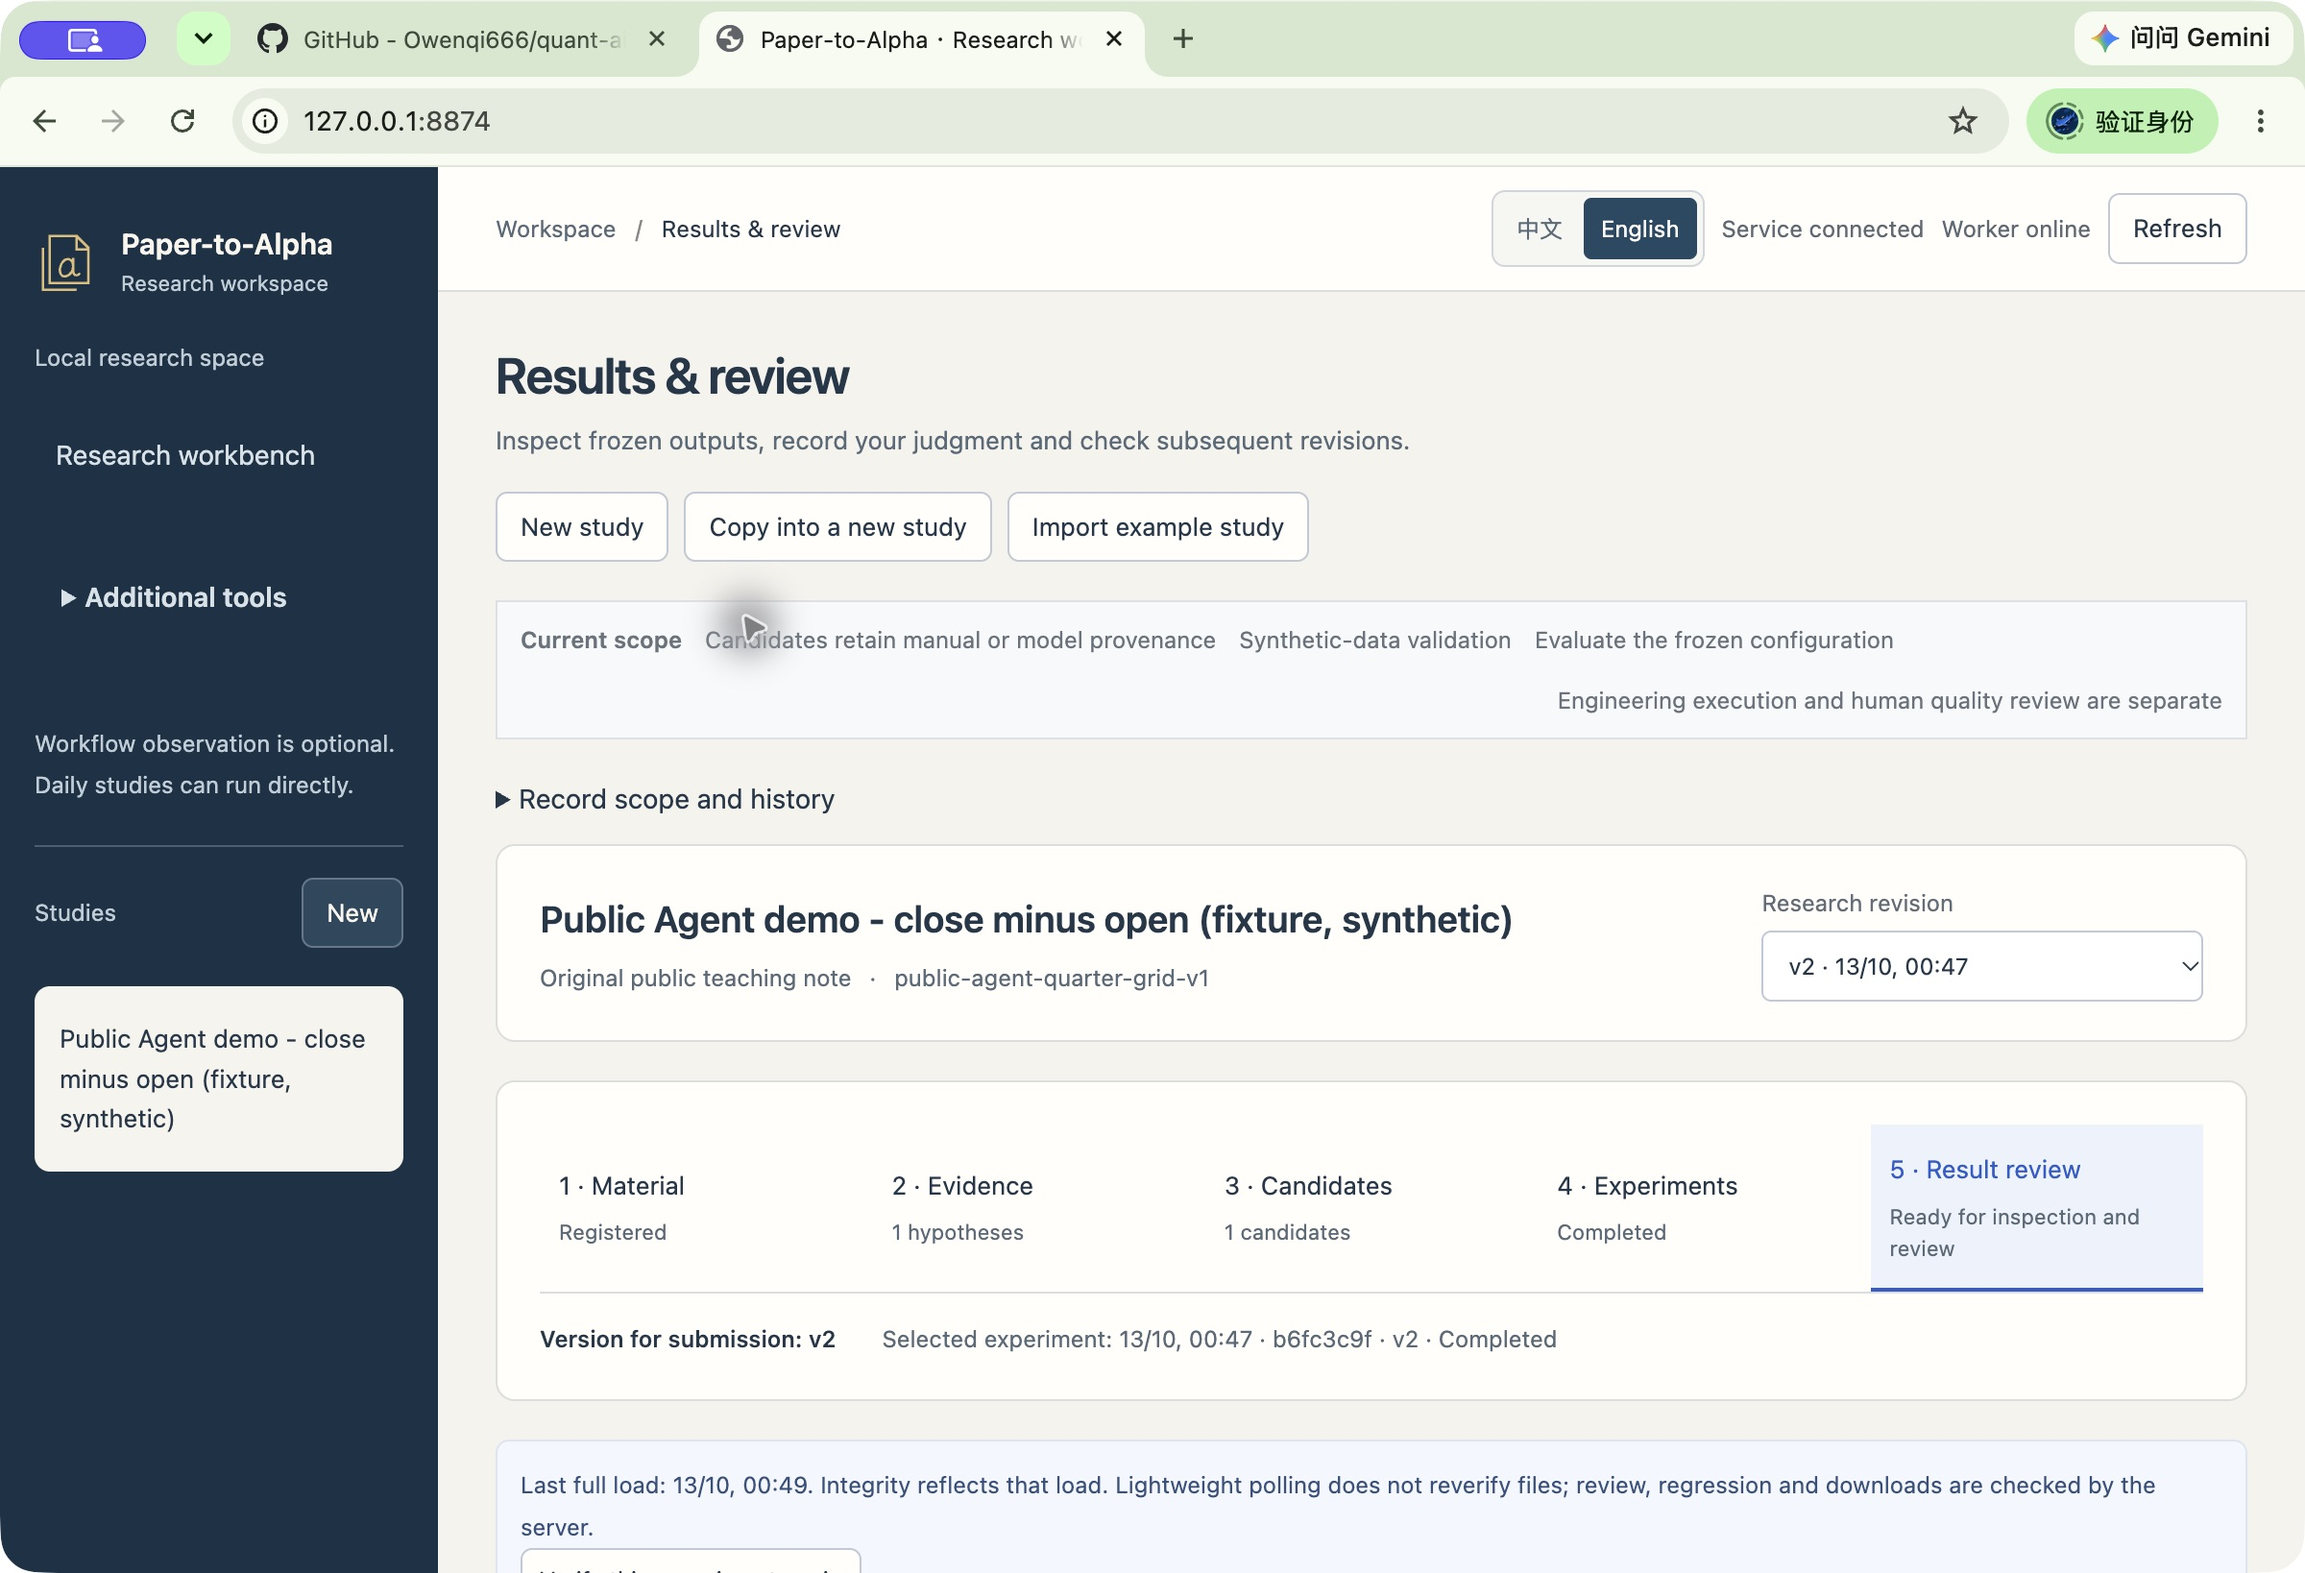
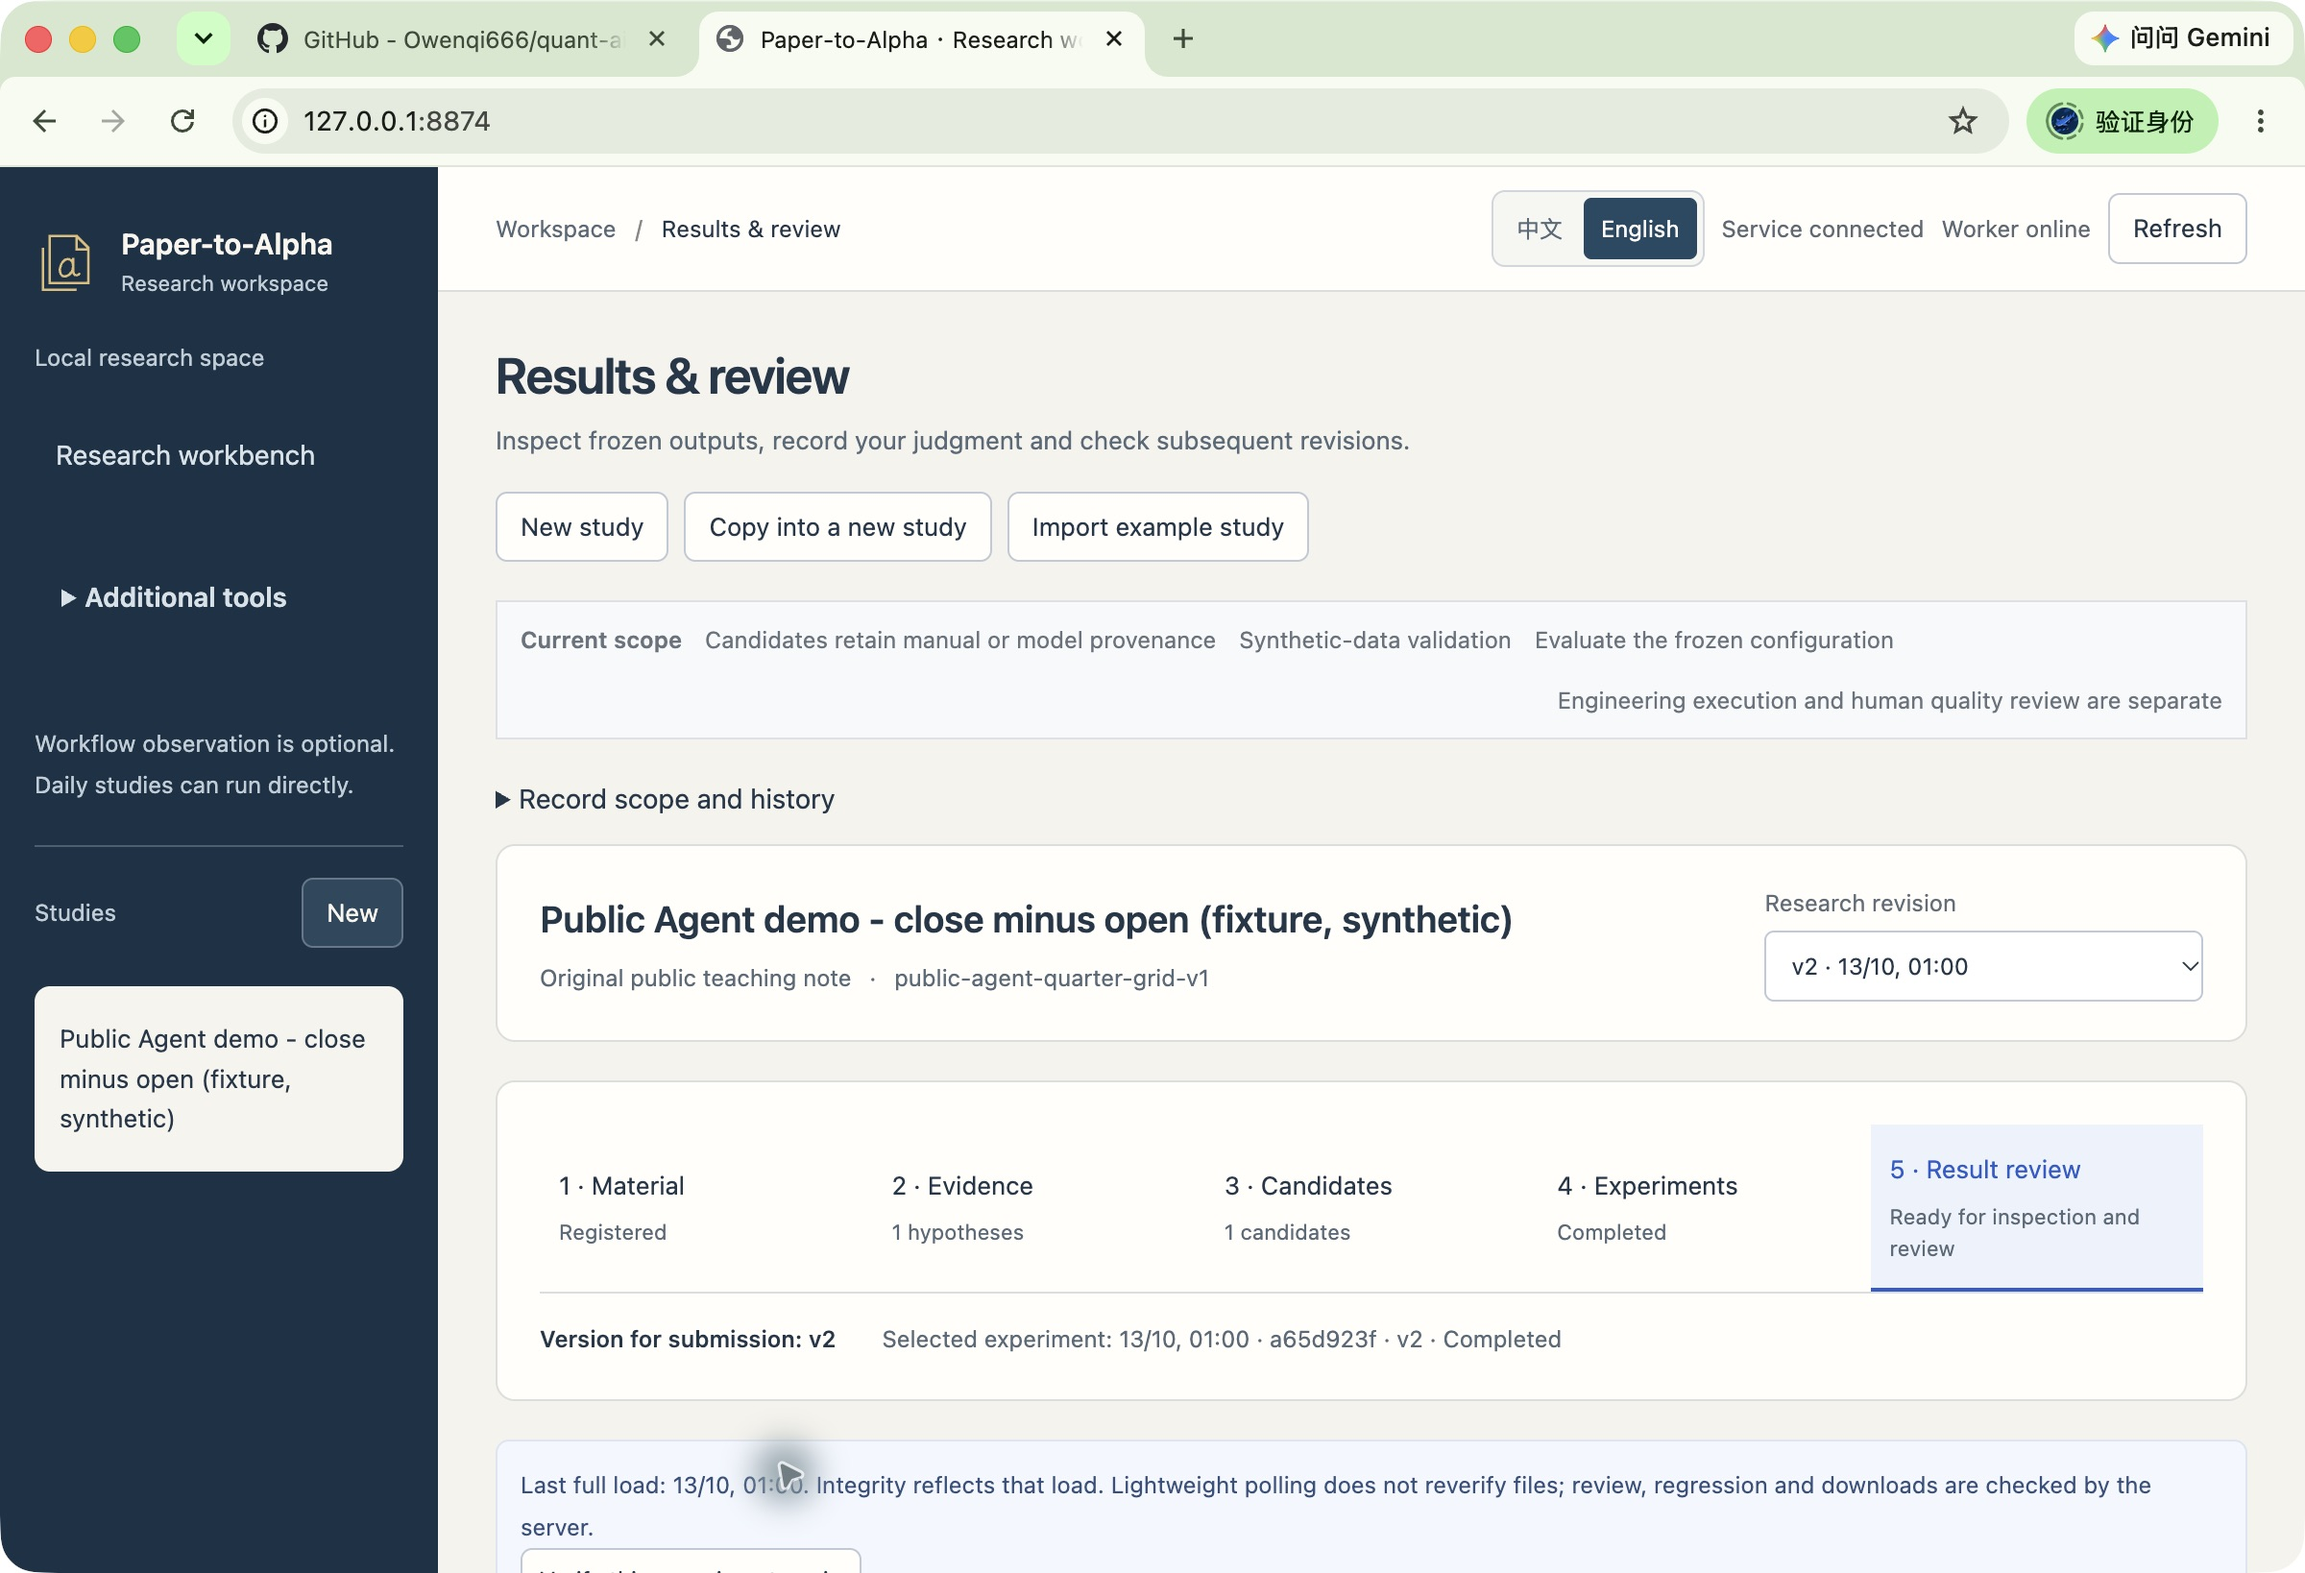
Reject arithmetic continuations on adjacent selected pages and retain independent declarations

diff --git a/tests/test_operator_definition_public.py b/tests/test_operator_definition_public.py
@@ -201,6 +201,38 @@ class PublicOperatorDefinitionTests(unittest.TestCase):
         repair = plan_operator_definition_repair(selection, material, catalog)
         self.assertFalse(repair['changed']); self.assertEqual(repair['material'], material)
 
+    def test_adjacent_selected_page_division_is_not_a_complete_definition(self):
+        suffix = 'divided by the value of x d days ago'
+        for terminal in ['', '.']:
+            for tail in [suffix, suffix.upper(), suffix + '; ' + RANK]:
+                with self.subTest(terminal=terminal, tail=tail):
+                    selection, material, catalog = synthetic('delta(close, 1)', (DELTA + terminal, tail))
+                    result = assess_operator_definitions(selection, material, catalog)
+                    self.assertEqual(result['status'], 'needs_information'); self.assertEqual(missing(result), {'delta'})
+                    plan = plan_operator_definition_repair(selection, material, catalog)
+                    self.assertFalse(plan['changed']); self.assertEqual(plan['material'], material)
+
+    def test_adjacent_selected_page_arithmetic_continuations_remain_unresolved(self):
+        for tail in ['multiplied by d', 'MULTIPLIED BY d', 'plus d', 'MINUS d', '/ d', '* d', '+ d', '- d']:
+            with self.subTest(tail=tail):
+                selection, material, catalog = synthetic('delta(close, 1)', (DELTA + '.', tail))
+                result = assess_operator_definitions(selection, material, catalog)
+                self.assertEqual(result['status'], 'needs_information'); self.assertEqual(missing(result), {'delta'})
+                self.assertFalse(plan_operator_definition_repair(selection, material, catalog)['changed'])
+        selection, material, catalog = synthetic('sign(close)', (SIGN, 'multiplied by 2'))
+        self.assertEqual(missing(assess_operator_definitions(selection, material, catalog)), {'sign'})
+
+    def test_next_selected_page_independent_definition_or_named_formula_ends_the_declaration(self):
+        for following in [RANK, 'Alpha#9002: rank(close)', 'minus(x) = an independently named function']:
+            with self.subTest(following=following):
+                selection, material, catalog = synthetic('delta(close, 1)', (DELTA, following))
+                self.assertEqual(assess_operator_definitions(selection, material, catalog)['status'], 'grounded')
+
+    def test_unselected_page_continuation_is_not_read_or_inferred(self):
+        selection, material, catalog = synthetic('delta(close, 1)',
+            (DELTA, 'divided by the value of x d days ago'), selected_pages=[1, 2])
+        self.assertEqual(assess_operator_definitions(selection, material, catalog)['status'], 'grounded')
+
     def test_delta_rhs_keeps_arithmetic_and_sentence_suffixes_unresolved(self):
         for suffix in [' multiplied by d', ' / d', ' * 2', ' plus the current value of x',
                        '; divided by d', '. Divided by d', '\nmultiplied by d', '...']:

diff --git a/paper_alpha/server/operator_definition_grounding.py b/paper_alpha/server/operator_definition_grounding.py
@@ -27,6 +27,7 @@ _STANDARD_SYMBOL = r'(?:\+|-|\*|/|>|<|==|\|\||x \? y : z)'
 _QUOTED_STANDARD_SYMBOL = rf'(?:"{_STANDARD_SYMBOL}"|“{_STANDARD_SYMBOL}”)'
 _STANDARD_MEANING = (rf'standard definitions(?:;\s*same for the operators\s+{_QUOTED_STANDARD_SYMBOL}'
                      rf'(?:,\s*{_QUOTED_STANDARD_SYMBOL}){{0,15}})?')
+_ARITHMETIC_CONTINUATION = re.compile(r'^(?:(?:divided|multiplied)\s+by\b|(?:plus|minus)\b|[/*+\-−])', re.I)
 
 
 def check_policy():
@@ -127,6 +128,16 @@ def _definitions(selection, catalog):
                            else _meaning(name, parameters))
             if pattern is None or re.fullmatch(pattern, rhs, re.I) is None:
                 continue
+            if index + 1 == len(headers) and page + 1 in selection['selected_pages']:
+                following = ''.join(c['text'] for c in selection['chunks'] if c['page'] == page + 1)
+                boundaries = [m.start() for m in _HEADER.finditer(following)]
+                boundaries += [m.start() for m in _STANDARD_HEADER.finditer(following)]
+                boundaries += [m.start() for m in re.finditer(r'\bAlpha\s*#\s*\d+\s*:', following, re.I)]
+                prefix = following[:min(boundaries) if boundaries else len(following)].lstrip()
+                # Only explicit leading arithmetic continuations are covered;
+                # independent prose is not silently attached across pages.
+                if _ARITHMETIC_CONTINUATION.match(prefix):
+                    continue
             # V1 evidence ranges name one source chunk. A declaration crossing
             # chunks remains unresolved; catalog spans within a chunk can join.
             chunk = next((c for c in chunks if c['start'] <= header.start() and end <= c['end']), None)

diff --git a/docs/model-workflow.md b/docs/model-workflow.md
@@ -43,6 +43,8 @@ The source-definition check follows nested AST operator dependencies and a finit
 
 If the necessary definition already exists in the selected spans, the bounded repair appends its citations and bindings in a new automation version. It preserves the raw draft, earlier accepted versions, hypotheses, formula, data, and scientific unknowns. Absent definitions, incorrect formulas, and inconsistent windows produce `needs_information`; the checker does not manufacture source text. A complete input may produce a zero-change verification version rather than a citation repair.
 
+Definition coverage is limited to a finite formal grammar and a declaration contained in one selected transport chunk. Catalog spans may jointly cover it. Explicit leading arithmetic continuations on the next adjacent selected physical page are also rejected; unselected pages are never read. Cross-page declarations, arbitrary cross-page prose, unfamiliar formatting and general entailment are outside this recognizer.
+
 ## Explicit formula engineering
 
 Formula-engineering mode can test a calculable source formula while leaving its missing economic explanation unresolved. It requires explicit execution conditions and an exact disposition for every original unknown. The source calculation, data meanings, mathematical direction, and execution assumptions must be adequate for computation. An execution gap cannot be relabeled as a scientific unknown to pass the gate.

diff --git a/docs/publication-validation.md b/docs/publication-validation.md
@@ -4,7 +4,7 @@
 
 A separate public checkout installed the locked dependencies in a new Python
 3.14.4 environment and used `npm ci` with Node 24.16.0 on macOS. It passed
-99 public Python tests, 505 frontend tests, TypeScript checking, the production
+103 public Python tests, 505 frontend tests, TypeScript checking, the production
 build and the generated API contract comparison. The account-free Agent demo
 completed one original Worker run; its independent checker passed all 13 checks.
 A malformed fixture reply remained failed with `REQUEST_MISMATCH`. Browser
